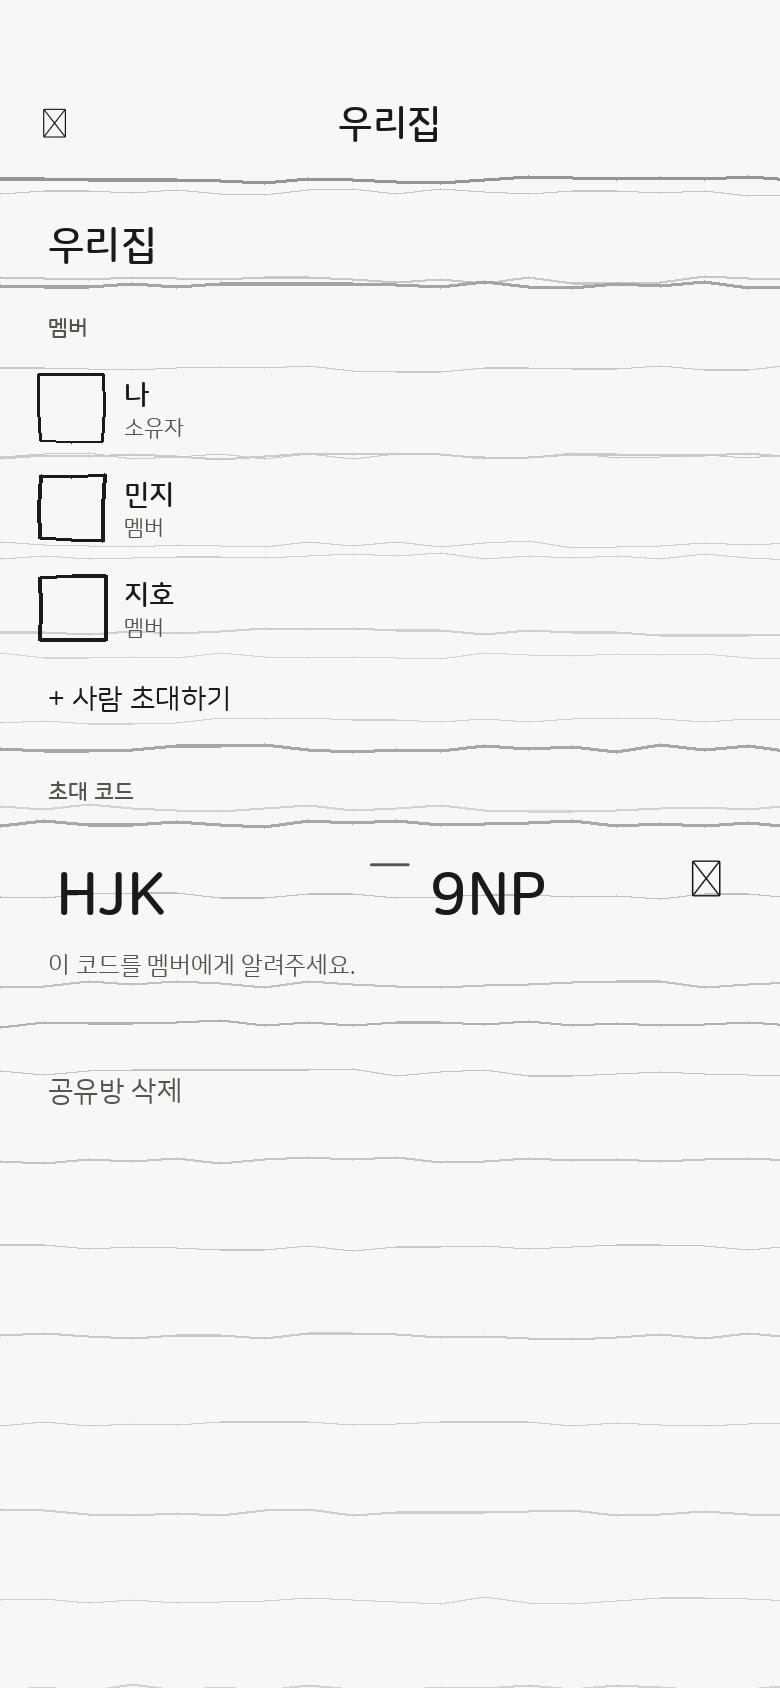
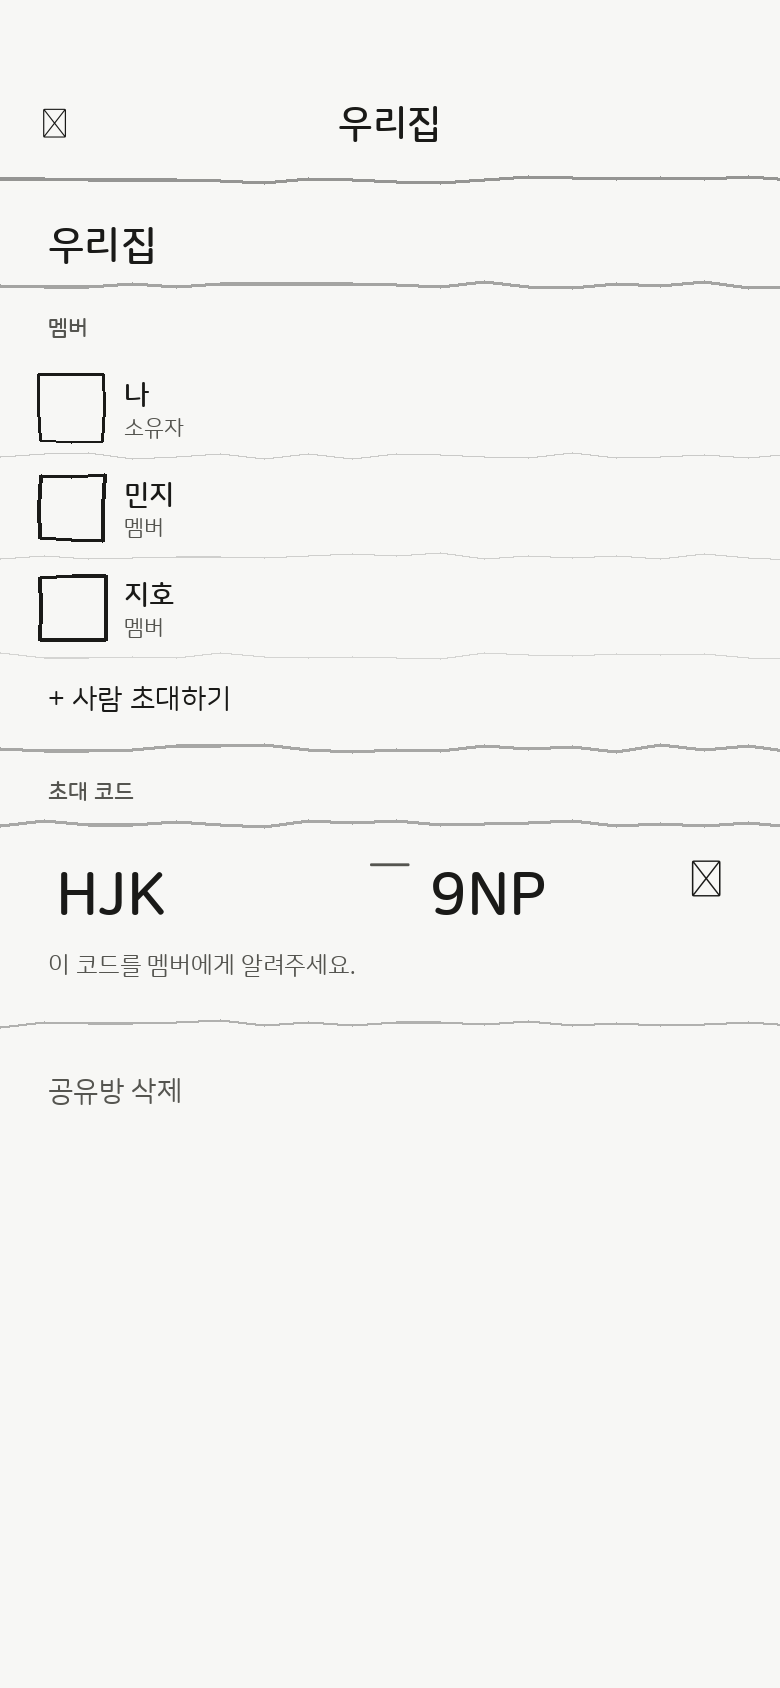
fix: draw ruled lines per row so they never cross text
Replace full-screen fixed-grid RuledBackground with RuledRowBackground
that draws a single wobbly ink line at the bottom of each list row.
Lines now always fall between text lines regardless of row height.
Also remove fixed-grid background lines from render.py sk_base/widget.

Claude-Session: https://claude.ai/code/session_01JyEow1kDsseKQ1Ndj3VFYi

diff --git a/Packages/SharedModels/Sources/SharedModels/SketchTheme.swift b/Packages/SharedModels/Sources/SharedModels/SketchTheme.swift
@@ -64,50 +64,54 @@ public struct SeededRNG {
     }
 }
 
-// MARK: - 굵고 울렁이는 줄노트 배경
-public struct RuledBackground: View {
-    var lineSpacing: CGFloat
+// MARK: - 행 하단에 잉크 선 하나 (행 높이에 맞춰 글자 아래 정확히 위치)
+public struct RuledRowBackground: View {
+    var seed: Int
+    var paperColor: SwiftUI.Color
 
-    public init(lineSpacing: CGFloat = 44) { self.lineSpacing = lineSpacing }
+    public init(seed: Int = 0, paperColor: SwiftUI.Color = SketchTheme.Color.paper) {
+        self.seed = seed
+        self.paperColor = paperColor
+    }
 
     public var body: some View {
-        GeometryReader { geo in
-            SketchTheme.Color.paper.ignoresSafeArea()
-            Canvas { ctx, size in
-                let count = Int(size.height / lineSpacing) + 2
-                for i in 0..<count {
-                    let baseY = CGFloat(i) * lineSpacing + 20
-                    var rng = SeededRNG(seed: i &* 137 &+ 17)
+        paperColor
+            .overlay(
+                Canvas { ctx, size in
+                    var rng = SeededRNG(seed: seed &* 137 &+ 17)
+                    let opacity = 0.22 + rng.next() * 0.10
+                    let lineWidth = 1.1 + rng.next() * 0.7
+                    // 행 하단 바로 위 — 패딩 8pt 여유
+                    let y = size.height - 8.0
 
-                    // 두께·진하기가 줄마다 미세하게 다름
-                    let opacity = 0.18 + rng.next() * 0.12
-                    let lineWidth = 1.2 + rng.next() * 0.8   // 굵고 뚜렷하게
-
-                    // 세그먼트 단위로 울렁임 (더 긴 세그먼트, 더 큰 흔들림)
-                    let segW: CGFloat = 24
+                    let segW: CGFloat = 22
                     let segs = Int(size.width / segW) + 2
                     var path = Path()
-
                     for s in 0..<segs {
                         let x0 = CGFloat(s) * segW
                         let x1 = x0 + segW
-                        let y0 = baseY + CGFloat(rng.jitter(1.5))
-                        let y1 = baseY + CGFloat(rng.jitter(1.5))
-                        let cy = baseY + CGFloat(rng.jitter(2.2))
+                        let y0 = y + CGFloat(rng.jitter(1.2))
+                        let y1 = y + CGFloat(rng.jitter(1.2))
+                        let cy = y + CGFloat(rng.jitter(1.8))
                         if s == 0 { path.move(to: CGPoint(x: x0, y: y0)) }
                         path.addQuadCurve(
                             to: CGPoint(x: x1, y: y1),
-                            control: CGPoint(x: (x0+x1)/2, y: cy)
+                            control: CGPoint(x: (x0 + x1) / 2, y: cy)
                         )
                     }
-
                     ctx.stroke(path,
                                with: .color(SketchTheme.Color.ink.opacity(opacity)),
                                style: StrokeStyle(lineWidth: lineWidth, lineCap: .round))
                 }
-            }
-        }
-        .ignoresSafeArea()
+            )
+    }
+}
+
+// MARK: - 전체 배경용 (비어있는 공간 채우기 — 선 없이 종이색만)
+public struct RuledBackground: View {
+    public init() {}
+    public var body: some View {
+        SketchTheme.Color.paper.ignoresSafeArea()
     }
 }
 

diff --git a/Packages/TodoFeature/Sources/TodoFeature/TodoView.swift b/Packages/TodoFeature/Sources/TodoFeature/TodoView.swift
@@ -66,7 +66,7 @@ private struct TodoListContent: View {
             Section {
                 ForEach(activeTodos) { todo in
                     row(todo)
-                        .listRowBackground(SketchTheme.Color.card)
+                        .listRowBackground(RuledRowBackground(seed: todo.id.hashValue))
                         .swipeActions(edge: .leading) {
                             if todo.status == .available {
                                 Button {
@@ -106,7 +106,8 @@ private struct TodoListContent: View {
                 Section {
                     ForEach(recentCompleted) { todo in
                         row(todo)
-                            .listRowBackground(SketchTheme.Color.card.opacity(0.7))
+                            .listRowBackground(RuledRowBackground(seed: todo.id.hashValue,
+                                                                  paperColor: SketchTheme.Color.paper.opacity(0.7)))
                             .swipeActions(edge: .trailing) {
                                 Button(role: .destructive) { delete(todo) } label: {
                                     Label("삭제", systemImage: "trash")

diff --git a/Packages/CalendarFeature/Sources/CalendarFeature/CalendarFeedView.swift b/Packages/CalendarFeature/Sources/CalendarFeature/CalendarFeedView.swift
@@ -281,7 +281,11 @@ struct FeedRowView: View {
             }
             TodoRowView(todo: todo)
         }
-        .listRowBackground(isOverdue ? Color.red.opacity(0.08) : Color.clear)
+        .listRowBackground(
+            isOverdue
+                ? RuledRowBackground(seed: todo.id.hashValue, paperColor: Color.red.opacity(0.05))
+                : RuledRowBackground(seed: todo.id.hashValue)
+        )
     }
 }
 

diff --git a/.screens/render.py b/.screens/render.py
@@ -167,11 +167,9 @@ def draw_checkmark(d, x, y, size, seed):
 
 # ---------------- 1. Todo List ----------------
 def sk_base():
-    """새 스타일 베이스 — 흰 종이 + 줄선"""
+    """베이스 — 흰 종이 (줄은 각 행 하단에 개별 그리기)"""
     img = Image.new("RGB", (W, H), SK_PAPER)
     d = ImageDraw.Draw(img)
-    for i in range(50):
-        draw_ink_line(d, (52 + i * 44) * S, W, seed=i*137+17, thickness=1.3, alpha=0.16)
     d.text((20*S, 14*S), "9:41", font=f(14,True), fill=SK_INK)
     d.text((W-70*S, 14*S), "▮▮▮ ▮", font=f(12), fill=SK_INK)
     return img, d
@@ -366,8 +364,6 @@ def calendar():
 def widget():
     img = Image.new("RGB", (W, H), SK_PAPER)
     d = ImageDraw.Draw(img)
-    for i in range(50):
-        draw_ink_line(d, (52+i*44)*S, W, seed=i*137+17, thickness=1.3, alpha=0.13)
     d.text((20*S, 14*S), "9:41", font=f(14,True), fill=SK_INK)
 
     mx, my = int(24*S), int(160*S)
